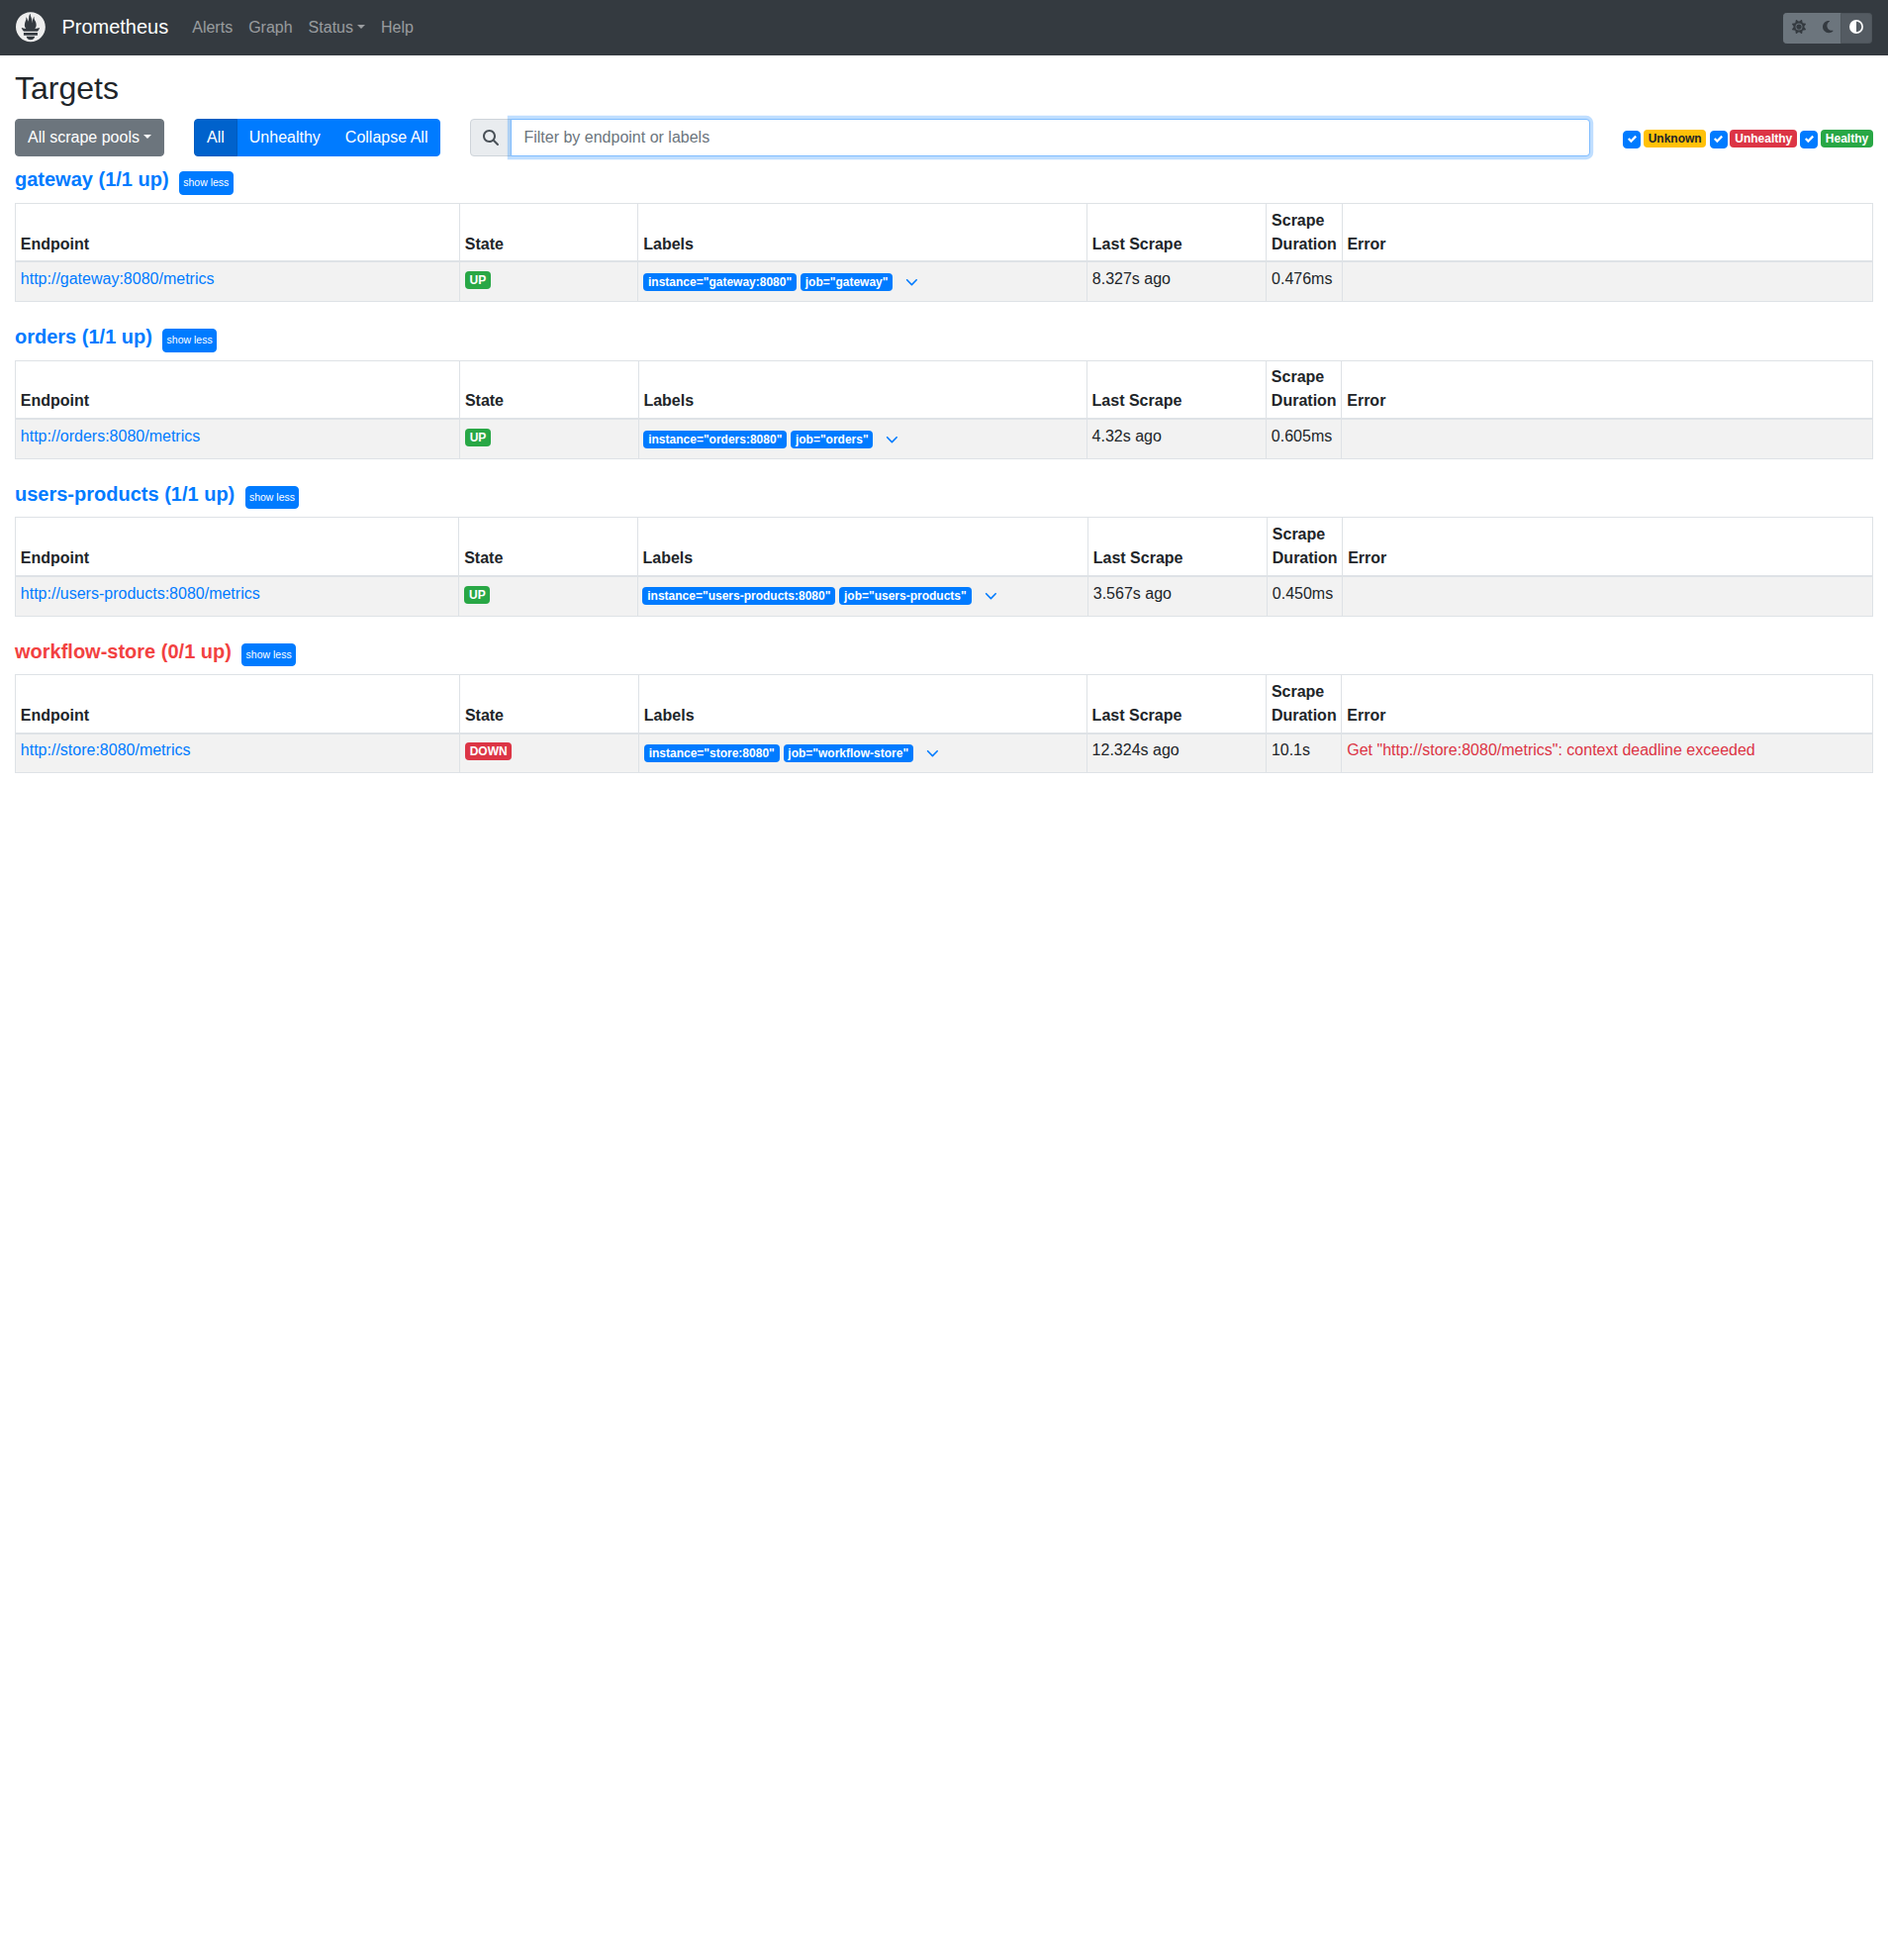
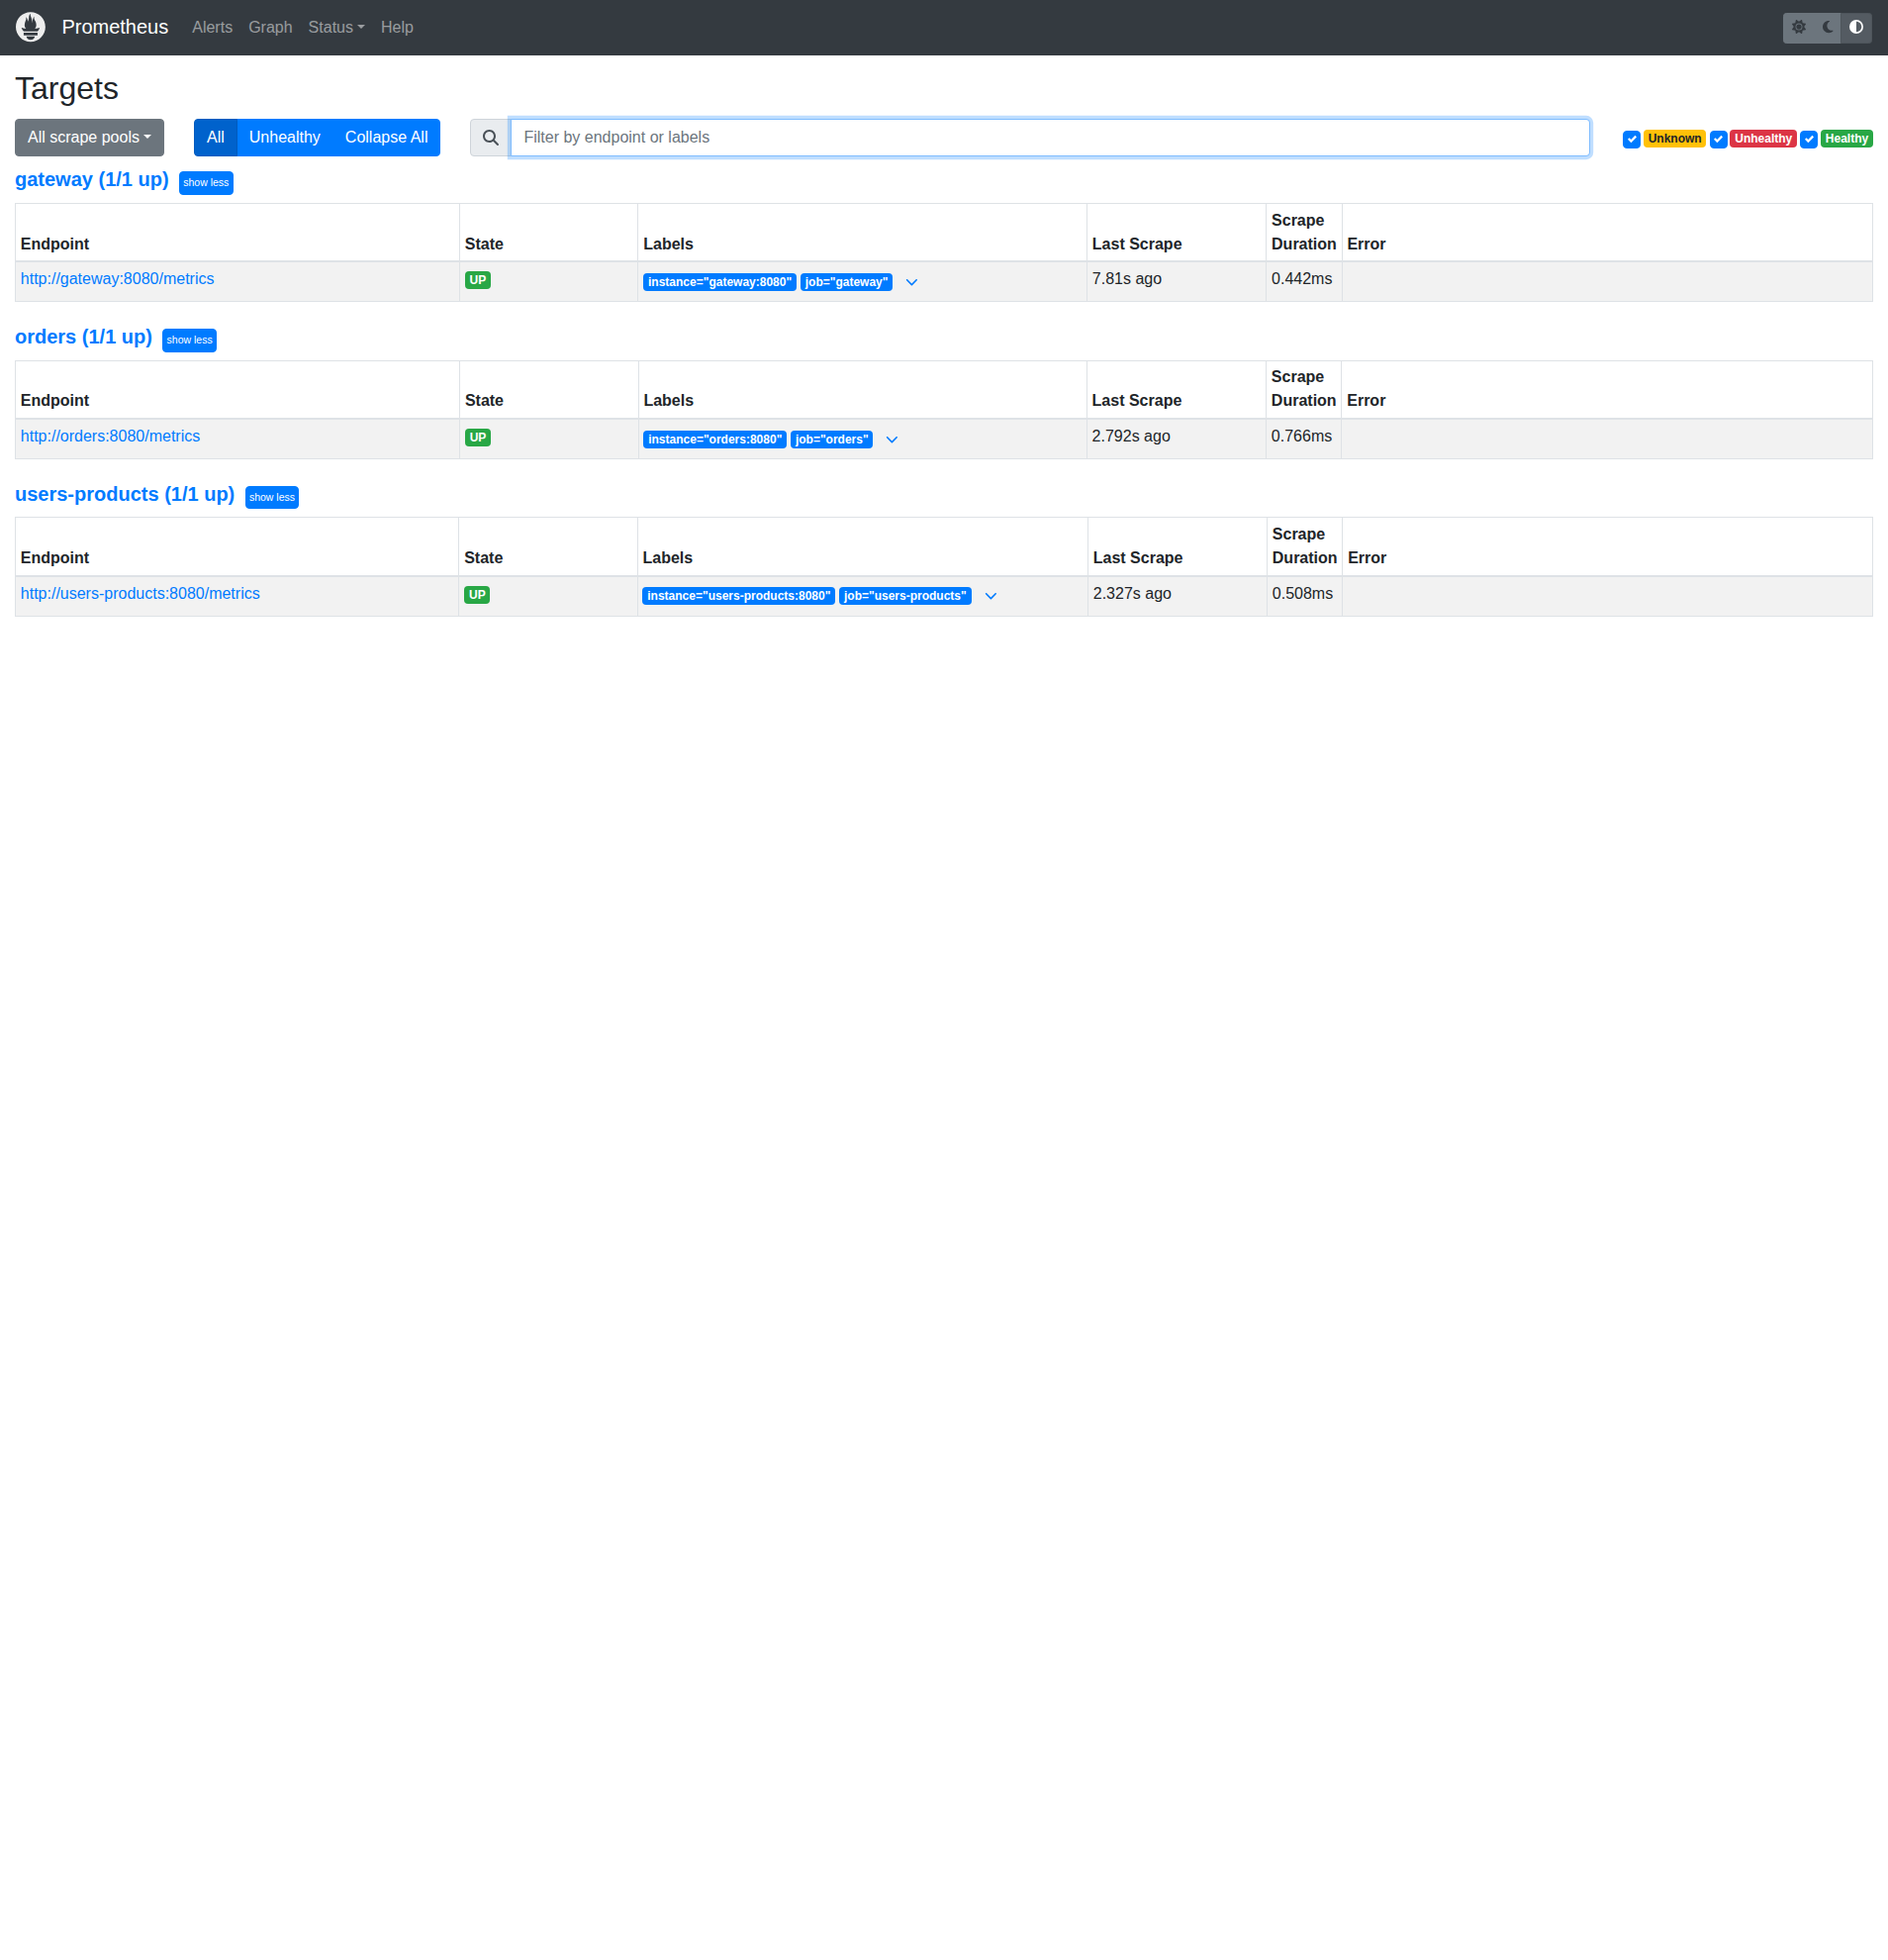
Remove stale monolith scrape target from prometheus config
The workflow-store target was showing as DOWN in distributed mode
since the monolith container doesn't run. Removed it so only the
3 distributed service targets (gateway, orders, users-products)
appear. Updated screenshot and docs table accordingly.

diff --git a/example/ecommerce-app/docs/DISTRIBUTED_ARCHITECTURE.md b/example/ecommerce-app/docs/DISTRIBUTED_ARCHITECTURE.md
@@ -226,9 +226,8 @@ All 3 distributed services report as UP targets with sub-millisecond scrape dura
 | Target | Status | Scrape Duration |
 |--------|--------|----------------|
 | gateway:8080 | UP | ~0.5ms |
-| orders:8080 | UP | ~0.6ms |
+| orders:8080 | UP | ~0.8ms |
 | users-products:8080 | UP | ~0.5ms |
-| store:8080 (monolith) | DOWN | expected when running distributed |
 
 #### Prometheus Queries
 
